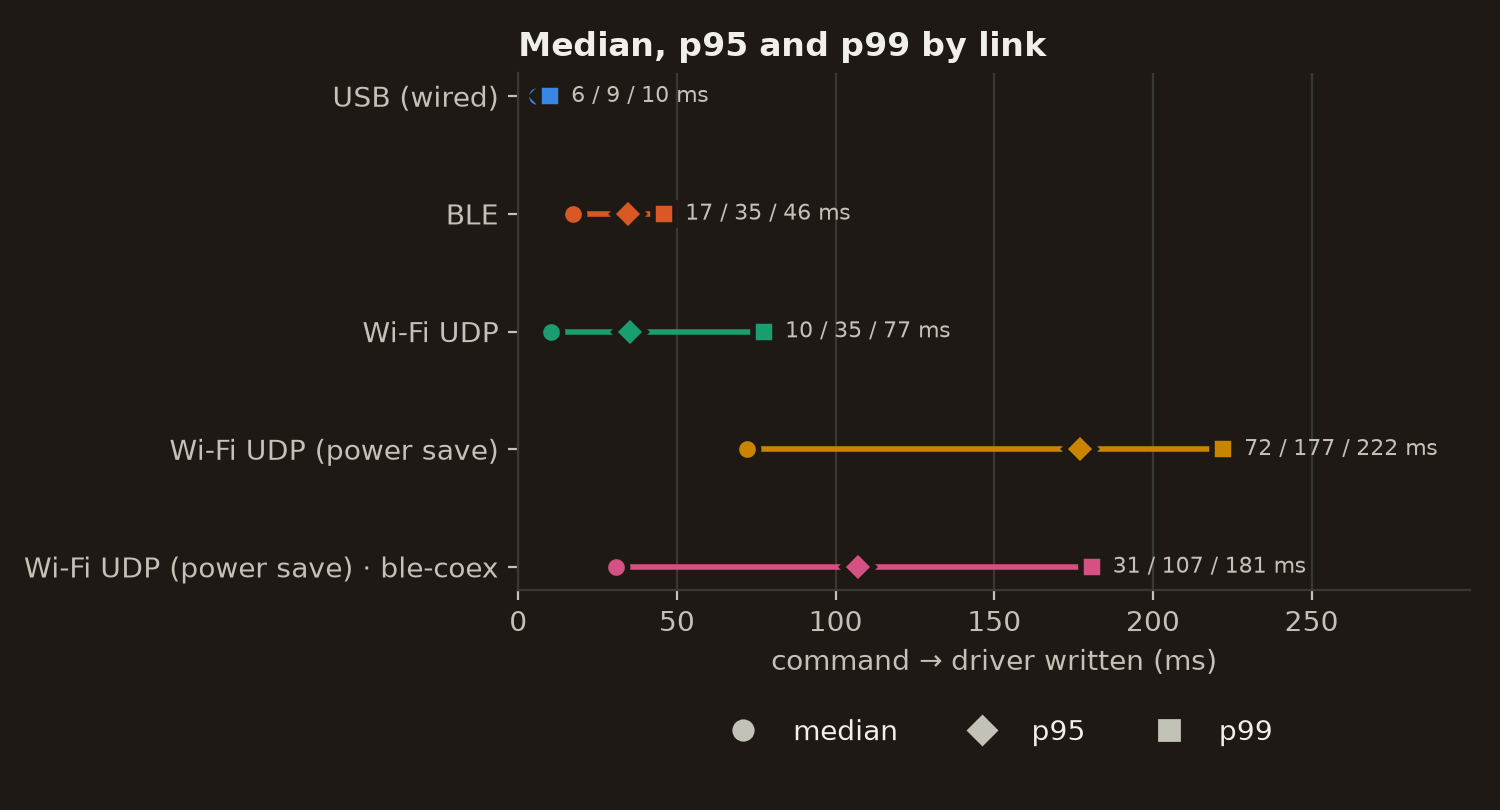
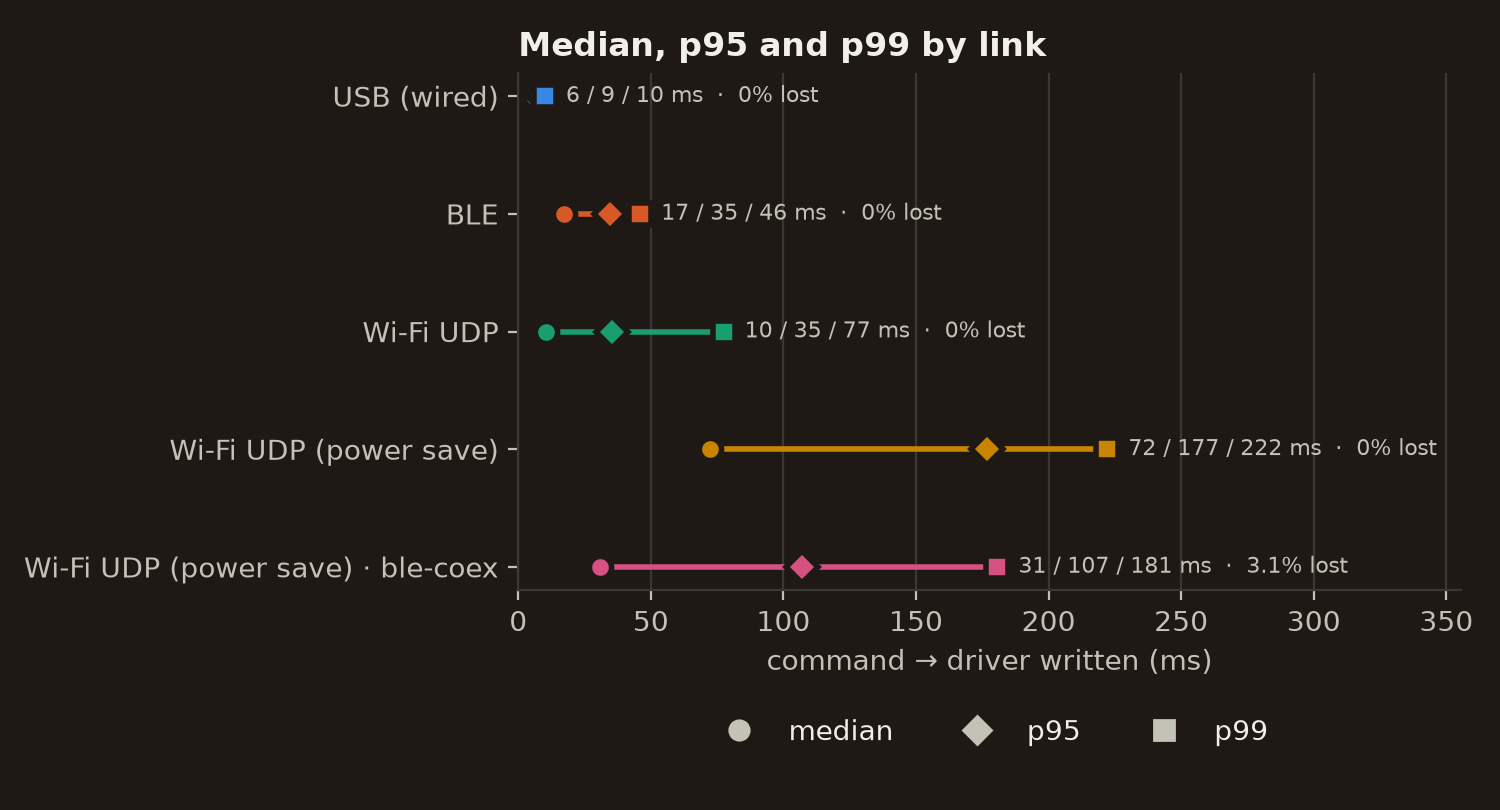
Tighten latency write-up: p99 only, loss in Figure 1, Limitations
- Figure 1 labels now show median/p95/p99 and % lost per link
- Results and Conclusion compares BLE and Wi-Fi on p99 only, with
  each number labelled by link
- Set-aside paragraph cites p99 (181 ms) instead of the max
- Drop the untested 400 kHz sentence
- New Limitations paragraph: what the timings cover and the Phase 2 plan

diff --git a/js/work.js b/js/work.js
@@ -41,13 +41,13 @@ const work = [
             id: "percentiles",
             src: "images/projects/phantom-touch/latency-percentiles.png",
             srcDark: "images/projects/phantom-touch/latency-percentiles-dark.png",
-            alt: "Median, 95th and 99th percentile latency per link: USB 6, 9 and 10 ms; BLE 17, 35 and 46 ms; Wi-Fi 10, 35 and 77 ms; Wi-Fi with power saving 72, 177 and 222 ms; Wi-Fi with power saving and BLE coexistence 31, 107 and 181 ms.",
-            caption: "**Median, p95 and p99 by link**, pooled over 1,600 commands per link (1–5 fingers and emergency stop). Wi-Fi has the lower median, but BLE has the much shorter worst case.",
+            alt: "Median, 95th and 99th percentile latency per link: USB 6, 9 and 10 ms, none lost; BLE 17, 35 and 46 ms, none lost; Wi-Fi 10, 35 and 77 ms, none lost; Wi-Fi with power saving 72, 177 and 222 ms, none lost; Wi-Fi with power saving and BLE coexistence 31, 107 and 181 ms, 3.1% of commands lost.",
+            caption: "**Median, p95 and p99 by link**, pooled over 1,600 commands per link (1–5 fingers and emergency stop). Labels give the three values and the share of commands lost. Wi-Fi has the lower median, but BLE has fewer very late commands.",
             wide: true,
           },
         ],
       },
-      "Two Wi-Fi configurations were set aside after this comparison (@fig:percentiles). With **power saving on**, the radio sleeps between the router's beacons and only collects waiting messages when it wakes, which pushed the median to **72 ms** and the 99th percentile to **222 ms**. With **power saving on and BLE running**, the two radios share one antenna and take turns, so Wi-Fi commands waited for BLE's time slots: about **3% of commands were lost** and the slowest took **391 ms**. On the ESP32-S3, Wi-Fi power saving cannot be turned off while BLE is active, so this is also the only way to run both radios at once. Neither configuration is usable for haptic feedback, so the rest of the analysis compares USB, BLE and Wi-Fi with power saving off.",
+      "Two Wi-Fi configurations were set aside after this comparison (@fig:percentiles). With **power saving on**, the radio sleeps between the router's beacons and only collects waiting messages when it wakes, which pushed the median to **72 ms** and the 99th percentile to **222 ms**. With **power saving on and BLE running**, the two radios share one antenna and take turns, so Wi-Fi commands waited for BLE's time slots: about **3% of commands were lost** and the 99th percentile reached **181 ms**. On the ESP32-S3, Wi-Fi power saving cannot be turned off while BLE is active, so this is also the only way to run both radios at once. Neither configuration is usable for haptic feedback, so the rest of the analysis compares USB, BLE and Wi-Fi with power saving off.",
       {
         figures: [
           {
@@ -60,8 +60,9 @@ const work = [
           },
         ],
       },
-      "On the USB baseline, latency rises by about **1 ms per finger** (@fig:fingers), from a median of **3.6 ms** for one finger to **7.8 ms** for five. The glove's timestamps place the whole increase in the I²C stage, while transfer time over the link stays constant. Because the drivers share one address, the multiplexer must switch to each finger's channel before that driver can be written, so fingers are updated one after another on a 100 kHz bus. The radios carry the same cost, but their own variation largely hides it. Running the bus at 400 kHz should reduce it.",
-      "**Results and Conclusion:** **BLE is the glove's wireless link.** Wi-Fi had the lower median (**10 vs 17 ms**), but BLE had the **shorter worst case**: 99th percentile **46 vs 77 ms**, slowest command **81 vs 198 ms** (@fig:percentiles). BLE delivered every command, even at 200 per second. For touch feedback, consistency matters more than raw speed: Wi-Fi's occasional very late pulse is more disruptive than BLE's steady extra few milliseconds. I therefore chose the link whose **slowest commands were fastest and that never dropped a command**, rather than the one with the lowest median. BLE also avoids keeping Wi-Fi power saving off, which likely costs battery (not yet measured). These timings stop when the glove commands the motor, so they show how the electronics perform, not whether a person would feel the difference. Phase 2 will test real conditions such as distance, the hand blocking the signal, and motor spin-up time.",
+      "On the USB baseline, latency rises by about **1 ms per finger** (@fig:fingers), from a median of **3.6 ms** for one finger to **7.8 ms** for five. The glove's timestamps place the whole increase in the I²C stage, while transfer time over the link stays constant. Because the drivers share one address, the multiplexer must switch to each finger's channel before that driver can be written, so fingers are updated one after another on a 100 kHz bus. The radios carry the same cost, but their own variation largely hides it.",
+      "**Results and Conclusion:** **Based on these measurements, BLE is the better wireless link for the glove.** Although Wi-Fi had the lower median (**Wi-Fi 10 ms vs BLE 17 ms**), BLE had **fewer very late commands**: 99th percentile **BLE 46 ms vs Wi-Fi 77 ms** (@fig:percentiles). For touch feedback, consistency matters more than raw speed: Wi-Fi's occasional very late pulse is more disruptive than BLE's steady extra few milliseconds. BLE also avoids keeping Wi-Fi power saving off, which likely costs battery (not yet measured).",
+      "**Limitations:** Each timing runs from the moment the PC sent a command (over USB, BLE or Wi-Fi) to the moment the glove finished writing it to the motor driver. It does not include the time the ERM motor takes to spin up, or whether the vibration felt on time to the wearer. All runs were on a bench, close to the router. Once the Unity prototype is working, Phase 2 will measure the full path, from a key press in Unity to the vibration on the finger, and test with participants whether they notice a delay.",
       { h: "Connecting XR Interactions", label: "Phase 2 (In Progress)" },
       "The next step is to connect virtual interaction events to the glove. I plan to use a **Unity keyboard prototype** in which each key produces two tactile events: one when a finger touches the key and another when it is pressed. To relay these events to individual actuators, I will evaluate existing BLE tools or build a custom tool if current options do not support the data capture, analysis, and frequency control I need.",
       "Early **Meta Quest 3** experiments also surfaced a hardware constraint: electronics mounted on the back of the hand appeared to interfere with hand tracking. I plan to move them to a wristband and then reassess tracking performance. Once the system is integrated, I can examine **touch-to-haptic latency, typing speed and accuracy, tracking performance, and user experience**.",
